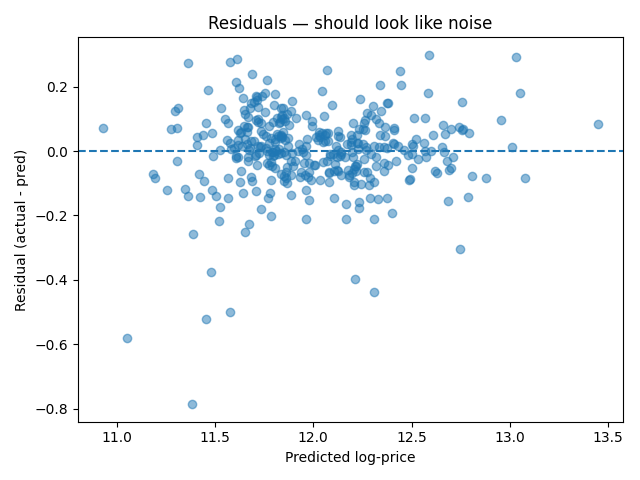
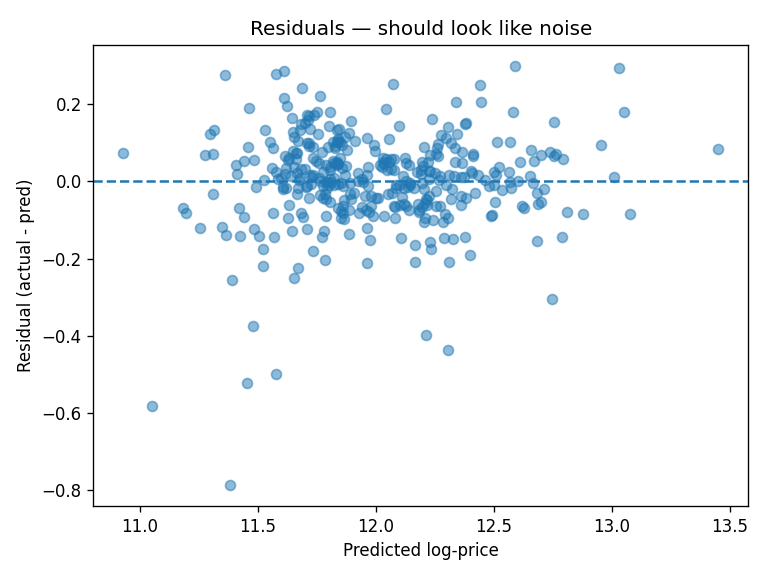
Sync changes

diff --git a/results/summary.md b/results/summary.md
@@ -1,5 +1,59 @@
-## Summary
-- OLS: 0.1273
-- RidgeCV: 0.1353
-- LassoCV: 0.1232
-- RandomForest RMSE (log): 0.1398
+# Summary
+
+## Metrics (RMSE on log-price)
+
+- **OLS**: 0.1273
+- **RidgeCV**: 0.1353
+- **LassoCV**: 0.1232
+- **RandomForest**: 0.1398
+- **LASSO best alpha**: 0.000543
+- **Elastic Net best**: RMSE=0.1256, l1_ratio=0.8, alpha=0.000719686
+
+## Plots
+
+- LASSO sparsity path: `results/sparsity_path.png`
+- LASSO performance path: `results/performance_path.png`
+- Residuals: `results/residuals.png`
+- Elastic Net RMSE by l1_ratio: `results/enet_rmse_by_l1.png`
+- Elastic Net sparsity by l1_ratio: `results/enet_sparsity_by_l1.png`
+- Elastic Net top features: `results/enet_top_features.png`
+
+## Top LASSO features (first 15)
+
+| feature                    |       coef |
+|:---------------------------|-----------:|
+| cat__RoofMatl_ClyTile      | -1.36511   |
+| cat__Condition2_PosN       | -0.362949  |
+| cat__Neighborhood_StoneBr  |  0.112481  |
+| num__GrLivArea             |  0.111807  |
+| cat__Neighborhood_Crawfor  |  0.109277  |
+| cat__Exterior1st_BrkFace   |  0.0933346 |
+| cat__MSZoning_C (all)      | -0.0779789 |
+| num__OverallQual           |  0.074812  |
+| cat__Functional_Typ        |  0.0621939 |
+| cat__Neighborhood_NridgHt  |  0.0612623 |
+| cat__Functional_Maj2       | -0.0561465 |
+| cat__SaleCondition_Abnorml | -0.0549444 |
+| cat__MSZoning_RM           | -0.0526438 |
+| cat__BsmtQual_Ex           |  0.0518102 |
+| num__YearBuilt             |  0.0488391 |
+
+## Top Elastic Net features (first 15)
+
+| feature                    |       coef |
+|:---------------------------|-----------:|
+| cat__RoofMatl_ClyTile      | -0.988744  |
+| cat__Condition2_PosN       | -0.277767  |
+| cat__Neighborhood_StoneBr  |  0.113621  |
+| cat__Neighborhood_Crawfor  |  0.109149  |
+| num__GrLivArea             |  0.10878   |
+| cat__Exterior1st_BrkFace   |  0.0933188 |
+| num__OverallQual           |  0.0768413 |
+| cat__Neighborhood_NridgHt  |  0.0660238 |
+| cat__MSZoning_C (all)      | -0.0633525 |
+| cat__Functional_Typ        |  0.0610675 |
+| cat__LandContour_Bnk       | -0.0545499 |
+| cat__BsmtQual_Ex           |  0.054331  |
+| cat__MSZoning_RM           | -0.0531465 |
+| cat__SaleCondition_Abnorml | -0.0520499 |
+| cat__Condition1_Norm       |  0.0486954 |
